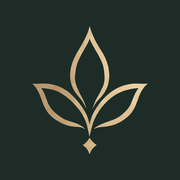
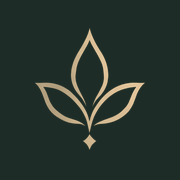
Brand: the lotus leaves the header and goes where it can be seen
The header is the bold GUVIRA wordmark alone, in off-white. The original lotus
drawing now marks the favicon and app icon (larger in the tile), the footer,
the 404 page, the empty bag and the no-results search, and a new default
share card. A 1024px avatar for Instagram and WhatsApp is in public/brand.

Changed region(s): [[0.1667, 0.1389, 0.8333, 0.8611]]

diff --git a/src/app/storefront.css b/src/app/storefront.css
@@ -5233,6 +5233,23 @@ summary {
   padding: 0;
   border: 0;
   background: none;
+  color: var(--paper);
+}
+.nav .logo {
+  font:
+    700 30px / 1 var(--font-serif),
+    Georgia,
+    serif;
+  letter-spacing: 0.26em;
+  text-transform: uppercase;
+}
+.nav .logo {
+  margin-right: -0.26em;
+}
+@media (max-width: 860px) {
+  .nav .logo {
+    font-size: 22px;
+  }
 }
 .nav .links {
   font-weight: 500;
@@ -7287,4 +7304,24 @@ summary {
   padding-block: var(--space-12);
   text-align: center;
   color: var(--soft);
+}
+
+/* The lotus, for the places that have room for it. */
+.foot-lotus {
+  display: block;
+  width: auto;
+  height: 44px;
+  margin: var(--space-6) auto 0;
+}
+.brand-mark {
+  display: block;
+  width: auto;
+  height: 56px;
+  margin: 0 auto var(--space-4);
+}
+.search-empty .brand-mark {
+  margin-left: 0;
+}
+.bag-empty .brand-mark {
+  margin-left: 0;
 }

diff --git a/src/components/bag-drawer.tsx b/src/components/bag-drawer.tsx
@@ -5,6 +5,7 @@ import Image from "next/image";
 import Link from "next/link";
 import { totalPrices } from "@/lib/commerce/price";
 import { useShop } from "@/lib/store/shop";
+import { BrandMark } from "./brand-mark";
 import { Icon } from "./icons";
 import { Price } from "./price";
 import { PillLink } from "./ui";
@@ -26,6 +27,7 @@ export function BagDrawer() {
           </div>
           {bag.length === 0 ? (
             <div className="bag-empty">
+              <BrandMark size={52} />
               <p>Your bag is empty.</p>
               <PillLink tone="dark" href="/shop" onClick={() => openBag(false)}>
                 Browse jewellery

diff --git a/src/components/site-footer.tsx b/src/components/site-footer.tsx
@@ -1,3 +1,4 @@
+import Image from "next/image";
 import Link from "next/link";
 import { getShopSettings } from "@/lib/caelinex/settings";
 import { getContact } from "@/lib/contact";
@@ -115,6 +116,14 @@ export async function SiteFooter({ slim = false }: { slim?: boolean }) {
         <div className="foot-mark" aria-hidden="true">
           GUVIRA
         </div>
+        <Image
+          className="foot-lotus"
+          src="/brand/guvira-lotus-champagne.png"
+          alt=""
+          width={43}
+          height={48}
+          unoptimized
+        />
         <FootTagline />
 
         <div className="foot-base">

diff --git a/src/app/search/page.tsx b/src/app/search/page.tsx
@@ -1,5 +1,6 @@
 import type { Metadata } from "next";
 import Link from "next/link";
+import { BrandMark } from "@/components/brand-mark";
 import { Icon } from "@/components/icons";
 import { ProductCard } from "@/components/product-card";
 import { SiteFooter } from "@/components/site-footer";
@@ -64,6 +65,7 @@ export default async function SearchPage({ searchParams }: Props) {
           </ul>
         ) : (
           <div className="search-empty">
+            <BrandMark size={52} />
             <p>
               {q ? "Nothing matched. Try a category:" : "Browse a category:"}
             </p>

diff --git a/src/app/not-found.tsx b/src/app/not-found.tsx
@@ -1,4 +1,5 @@
 import Link from "next/link";
+import { BrandMark } from "@/components/brand-mark";
 import { SiteFooter } from "@/components/site-footer";
 import { SiteHeader } from "@/components/site-header";
 import { Heading, PillLink } from "@/components/ui";
@@ -10,6 +11,7 @@ export default function NotFound() {
     <>
       <SiteHeader />
       <main id="main" className="wrap not-found">
+        <BrandMark size={64} />
         <Heading
           as="h1"
           script="lost"

diff --git a/src/components/site-header.tsx b/src/components/site-header.tsx
@@ -143,14 +143,7 @@ export function SiteHeader({ over = false }: { over?: boolean }) {
           ))}
         </nav>
         <Link className="logo" href="/" aria-label="Guvira home">
-          <Image
-            src="/brand/guvira-logo-gold.png"
-            alt="Guvira"
-            width={175}
-            height={44}
-            priority
-            unoptimized
-          />
+          Guvira
         </Link>
         <div className="tools">
           {search && <SearchCommand />}

diff --git a/src/components/brand-mark.tsx b/src/components/brand-mark.tsx
@@ -1,0 +1,15 @@
+import Image from "next/image";
+
+/** The Guvira lotus, in evergreen, for the quiet moments on a light page. */
+export function BrandMark({ size = 56 }: { size?: number }) {
+  return (
+    <Image
+      className="brand-mark"
+      src="/brand/guvira-lotus-evergreen.png"
+      alt=""
+      width={Math.round(size * 0.9)}
+      height={size}
+      unoptimized
+    />
+  );
+}

diff --git a/src/app/layout.tsx b/src/app/layout.tsx
@@ -21,7 +21,7 @@ const script = Pinyon_Script({
   display: "swap",
 });
 const serif = Cormorant_Garamond({
-  weight: ["500", "600"],
+  weight: ["500", "600", "700"],
   subsets: ["latin"],
   variable: "--font-serif",
   display: "swap",
